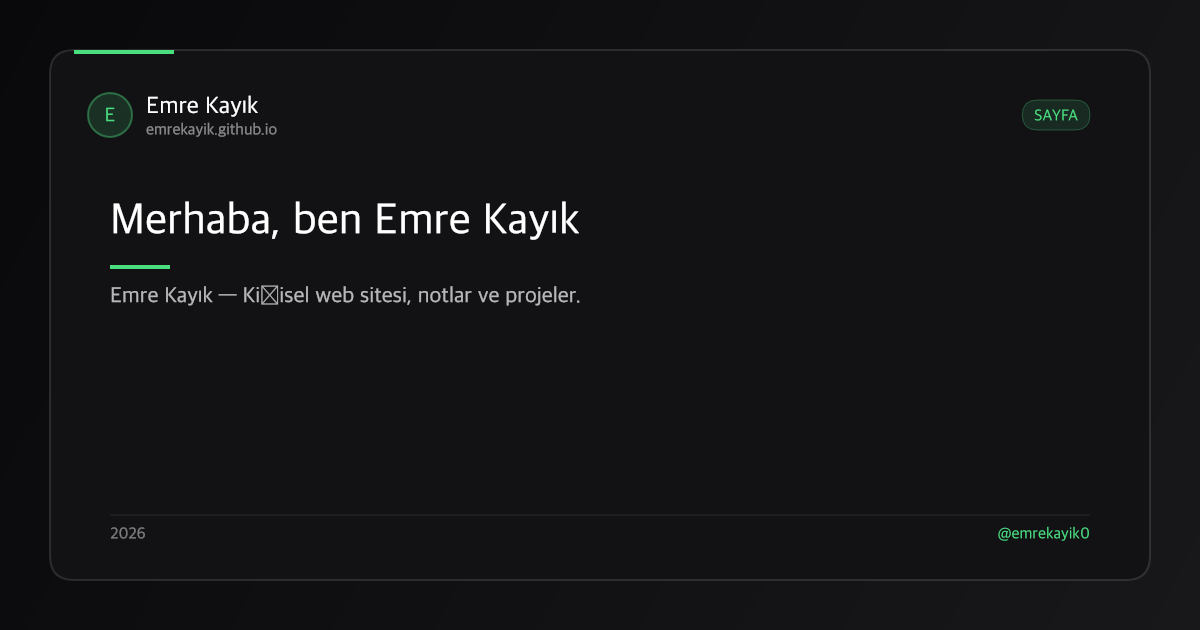
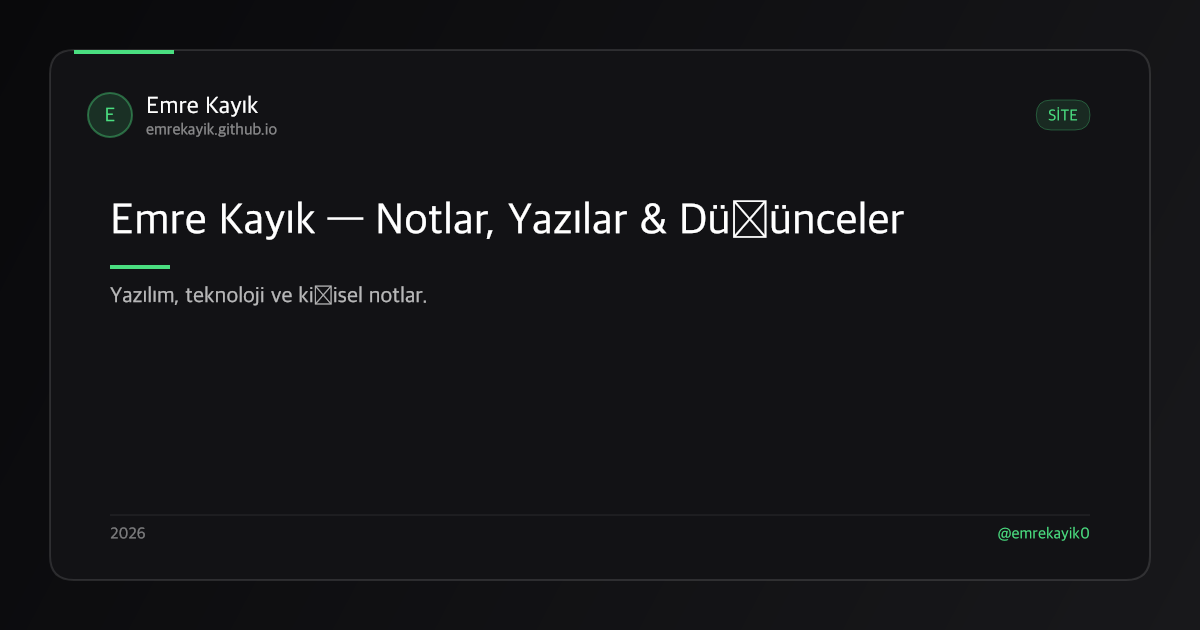
feat: enhance OG image generation with slugification and update layout templates for improved metadata and date handling

Changed region(s): [[0.0925, 0.3016, 0.7708, 0.3921], [0.0925, 0.4524, 0.4933, 0.4825], [0.8633, 0.1508, 0.8942, 0.2111]]

diff --git a/_layouts/default.html b/_layouts/default.html
@@ -37,12 +37,9 @@
         <meta property="og:description" content="{{ page.description | default: page.excerpt | strip_html | truncate: 160 | default: 'Emre Kayık — Kişisel blog, notlar ve düşünceler.' | escape }}" />
         <meta property="og:site_name" content="Emre Kayık" />
 
-        {% assign og_slug = page.slug %}
+        {% assign og_slug = page.slug | default: page.title | slugify: 'latin' %}
         {% if page.url == '/' or page.url == '/index.html' %}
           {% assign og_slug = 'index' %}
-        {% endif %}
-        {% if og_slug == nil or og_slug == "" %}
-          {% assign og_slug = page.title | slugify %}
         {% endif %}
 
         {% if page.image %}

diff --git a/index.html b/index.html
@@ -97,11 +97,13 @@ title: "Merhaba, ben Emre Kayık"
                     class="font-bold text-base-content group-hover:text-secondary transition-colors"
                     >{{ item.title }}</span
                 >
+                {% if item.created %}
                 <time
                     class="text-xs font-mono opacity-40 group-hover:opacity-100 transition-opacity"
                     >{{ item.created | date: "%b %d, %y" | localize: '%-d %B %Y'
                     }}</time
                 >
+                {% endif %}
             </div>
             <div class="flex flex-col gap-2">
                 <span

diff --git a/_layouts/project.html b/_layouts/project.html
@@ -6,8 +6,9 @@ layout: default
     <article class="prose lg:prose-lg prose-neutral dark:prose-invert max-w-4xl w-full">
         <h1 class="text-primary">{{ page.title }}</h1>
 
-        <div class="text-sm flex items-center gap-2 mb-2">
+            {% if page.date %}
             <span class="badge badge-outline">{{ page.date | localize: '%-d %B %Y' }}</span>
+            {% endif %}
             {% if page.last_modified_at %}
             <span class="badge badge-outline badge-secondary">
                 Son Güncelleme: {{ page.last_modified_at | localize: '%-d %B %Y' }}

diff --git a/_includes/share_story_modal.html b/_includes/share_story_modal.html
@@ -244,7 +244,7 @@ badge_type = "NOT" %} {% endif %}
           id="story-card-footer"
           class="pt-2 border-t border-current/15 flex items-center justify-between text-[10px] font-mono opacity-60 not-prose z-10 relative"
         >
-          <span>{{ page.date | localize: '%-d %B %Y' }}</span>
+          <span>{% if page.date %}{{ page.date | localize: '%-d %B %Y' }}{% else %}{{ site.time | localize: '%-d %B %Y' }}{% endif %}</span>
           <span id="story-handle" style="color: #4ade80" class="font-semibold"
             >@emrekayik0</span
           >
